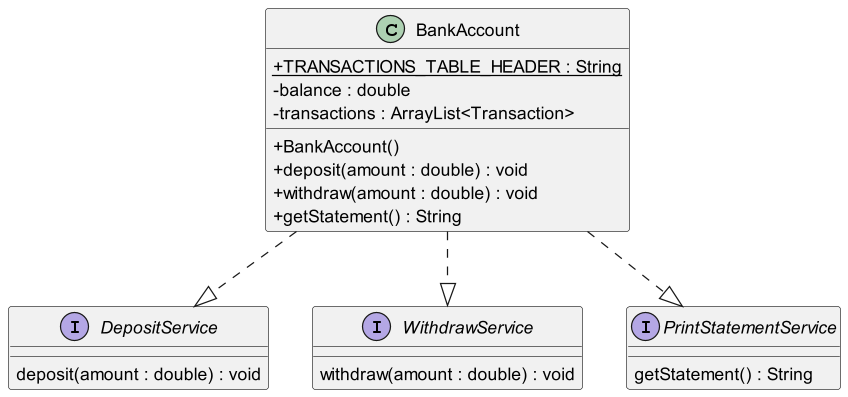
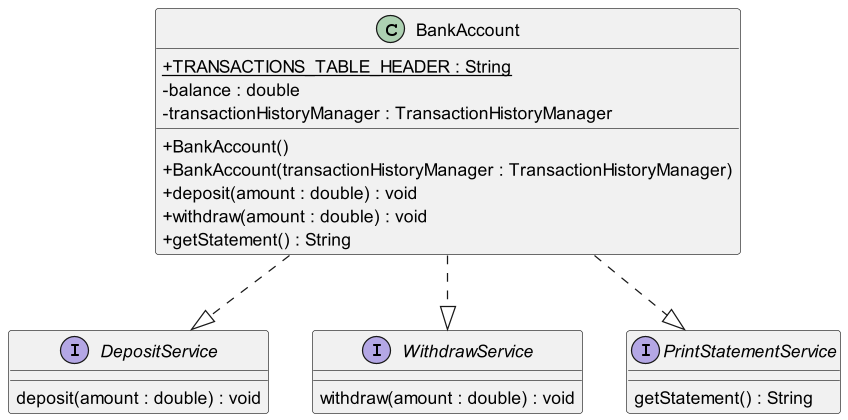
docs: Update latest README

diff --git a/README.md b/README.md
@@ -1,4 +1,4 @@
-# 🏦 AwesomeGIC Bank: Documentation
+# AwesomeGIC Bank: Documentation
 
 ## User stories
 
@@ -18,7 +18,7 @@
 
 ### Directory Structure
 
-```c
+```bash
 │   BankTeller.java
 │   Main.java
 │
@@ -45,34 +45,36 @@
 └───transactions
         DepositTransaction.java
         Transaction.java
+        TransactionHistoryManager.java
         WithdrawTransaction.java
+
 ```
 
-### **Transaction**s
+### **Transaction classes**
 
 ![Untitled](AwesomeGIC Bank Documentation 5a309353adeb48d096b20623e5dc11af/Untitled.png)
 
-A class that keeps track of the details of a single transaction, such as date, amount, and balance. There are 2 types of **Transaction**s, which are `WithdrawTransaction` and `DepositTransaction`.
+The abstract class `Transaction` keeps track of the details of a single transaction, such as date, amount, and balance. There are 2 types of **Transaction**s, which are `WithdrawTransaction` and `DepositTransaction`. `TransactionHistoryManager` keeps track of the transaction history, ordered by transaction date, using an `ArrayList`.
 
-### Bank Account Operations
+### BankAccountOperation classes
 
 ![Untitled](AwesomeGIC Bank Documentation 5a309353adeb48d096b20623e5dc11af/Untitled 1.png)
 
-The 4 main operations, **Deposit**, **Withdraw**, **PrintStatement,** and **Quit**, all implement the **execute()** method from the **BankAccountOperation** interface. **BankAccountOperationFactory** is a factory class that creates operations of type **BankAccountOperation** for the bank account. It applies the Factory Method design pattern.
+The 4 main operations, **Deposit**, **Withdraw**, **PrintStatement,** and **Quit**, all implement the **execute()** method from the `BankAccountOperation` interface. `BankAccountOperationFactory` is a factory class that creates operations of type **`**BankAccountOperation` for the bank account. It applies the **Factory Method** and **Command** design patterns.
 
 ### the BankAccount class
 
 ![Untitled](AwesomeGIC Bank Documentation 5a309353adeb48d096b20623e5dc11af/Untitled 2.png)
 
-The **BankAccount** class implements the logic to support the main functionalities of a bank account, through the **deposit()**, **withdraw(),** and **getStatement()** methods. It keeps track of the current balance of the bank account and a historical list of **Transaction**s, ordered by transaction date.
+The `BankAccount` class implements the logic to support the main functionalities of a bank account, through the `deposit()`, `withdraw()`**,** and `getStatement()` methods. It keeps track of the current balance of the bank account and a historical list of **Transaction**s, using the `TransactionManager`.
 
 ### the BankTeller class
 
 ![Untitled](AwesomeGIC Bank Documentation 5a309353adeb48d096b20623e5dc11af/Untitled 3.png)
 
-The BankTeller class plays the role of a bank teller in a real-world scenario, handling user requests and bank responses through I/O operations. It is the sole entry point to interact with a bank account.
+The `BankTeller` class plays the role of a bank teller in a real-world scenario, handling user requests and bank responses through I/O operations. It is the sole entry point to interact with a bank account.
 
-### Exceptions
+### Exception classes
 
 ![Untitled](AwesomeGIC Bank Documentation 5a309353adeb48d096b20623e5dc11af/Untitled 4.png)
 
@@ -82,15 +84,15 @@ The exceptions focus on handling scenarios where the user input will result in a
 
 ![output.png](AwesomeGIC Bank Documentation 5a309353adeb48d096b20623e5dc11af/output.png)
 
-## **Software Engineering Principles**
+## **Object-oriented Design Principles**
 
 ### Single Responsibility
 
-In this application, each class only has one responsibility and one reason to change. For example, the `BankAccount` class fully handles the logic of a bank account, the `BankTeller` class handles all user requests, the `Transaction` classes are responsible for storing individual transaction data, and the `Operation`classes each handle their respective scenario.
+In this application, each class only has one responsibility and one reason to change. For example, the `BankAccount` class fully handles the logic of a bank account, the `BankTeller` class handles all user requests, the `Transaction` classes are responsible for storing individual transaction data, the `TransactionHistoryManager` keeps track of the historical list of **Transaction**s, and the `Operation`classes each handle their respective scenario.
 
 ### **Open-closed Principle**
 
-Classes in this application are designed such that they are open for extension but closed for modification. For example, the `Transaction` class could be extended to model different types of bank account transactions, like `PaymentTransaction` and `InterestTransaction`. The `BankAccount` class could be extended to model different type of bank accounts, like`FixedDepositBankAccount`, `SavingsBankAccount`, and `SalaryBankAccount`. This allows for flexibility and reduces the risk of introducing bugs when extending the system's functionality.
+Classes in this application are designed such that they are open for extension but closed for modification. For example, the `Transaction` abstract class could be extended to model different types of bank account transactions, like `PaymentTransaction` and `InterestTransaction`. The `BankAccount` class could be extended to model different type of bank accounts, like`FixedDepositBankAccount`, `SavingsBankAccount`, and `SalaryBankAccount`. This allows for flexibility and reduces the risk of introducing bugs when extending the system's functionality.
 
 ### Liskov Substitution
 
@@ -106,10 +108,10 @@ For example, the `BankTeller` constructor takes in `Scanner`, `BankAccount`, and
 
 ## Code Quality
 
-- Application of Single Level of Abstraction Principle (SLAP).
+- Application of Single Level of Abstraction Principle (**SLAP**).
 - Use of guard clauses to keep the happy path prominent.
 - No magic numbers and string literals, abstracted them out as constants instead.
-- Widespread coverage and correct format of Javadoc.
+- Widespread coverage and correct format of **Javadoc**.
 
 ## Representation Invariants and Assertions
 
@@ -119,13 +121,17 @@ The representation invariant for the bank account is that balances must be non-n
 
 ## Performance
 
-As opposed to using naive String concatenation, which results in a time complexity of **O(N²)** due to the immutability of `String` in Java, where **N** is the length of the final String, `StringBuilder` was used in`getStatement()` to provide **O(N)** time complexity when building the transaction table.
+As opposed to using naive String concatenation, which results in a time complexity of **O(N²)** due to the immutability of `String` in Java, where **N** is the length of the final String, `StringBuilder` was used in the `toString()` method of `TransactionHistoryManager` to provide **O(N)** time complexity when building the transaction table.
 
 ## Possible Future Enhancements
 
-### Supporting Concurrency
+### Concurrency
 
 Concurrent access from multiple clients is a critical scenario in a banking system. In a multi-client, concurrent environment, each client could be represented by a thread in the `BankTeller` thread pool. To achieve this, methods like `deposit()`, `withdraw()`, and `getStatement()` in the `BankAccount` class should be explicitly synchronized using the `synchronized` keyword. Outside synchronized blocks, shared data structures such as `ArrayList`, used to store transaction history, must be synchronized using the Java `Collections` library to avoid thread safety issues. By synchronizing access to these resources, we can safeguard against race conditions, thus maintaining the integrity of bank account data.
+
+### Database Integration
+
+As a banking system which prioritises consistency over availability, an **SQL** database, which adheres to the **ACID** model, may be preferred over a **NoSQL** database. The database tables that may be needed are `Customer`, `BankAccount`, `Transaction`, and `AuditLog`. We could use **JDBC** (Java Database Connectivity) to interact with the database. **ORM** frameworks such as **Hibernate** or **JPA** could be used to map Java objects to the database tables.
 
 ### Supporting Different Types of Bank Accounts
 
@@ -135,22 +141,123 @@ To accommodate various types of bank accounts like `FixedDepositBankAccount`, `S
 
 Unit testing and integration testing are essential components of ensuring the reliability and correctness of the banking application.
 
-### Unit Testing
+### Unit Test Plan
 
-1. **Deposit Functionality**: Unit tests should verify that the deposit functionality works as expected. This includes:
-    - Testing depositing various amounts of money.
-    - Checking that the balance is updated correctly after each deposit.
-    - Ensuring that appropriate error handling is in place for invalid inputs.
-2. **Withdrawal Functionality**: Unit tests should cover all aspects of the withdrawal functionality, such as:
-    - Testing withdrawals of different amounts.
-    - Verifying that the balance is updated correctly after each withdrawal.
-    - Checking for insufficient funds scenarios and appropriate error handling.
-3. **Print Statement Functionality**: Unit tests should validate the print statement functionality by:
-    - Verifying that the printed statement contains the correct transaction details.
-    - Ensuring that the statement includes the appropriate header and formatting.
-4. **Quit Functionality**: Although straightforward, unit tests should confirm that the application exits gracefully when the user chooses to quit.
+### BankAccount.java
 
-### Integration Testing
+### Test Cases:
+
+- Test depositing a positive amount updates the balance correctly.
+- Test depositing a non-positive amount throws `DepositAmountNonPositiveException`.
+- Test withdrawing a valid amount updates the balance correctly.
+- Test withdrawing a non-positive amount throws `WithdrawAmountNonPositiveException`.
+- Test withdrawing an amount exceeding the balance throws `WithdrawAmountExceedDepositException`.
+- Test printing the account statement generates the correct output.
+
+### BankAccountOperationFactory.java
+
+### Test Cases:
+
+- Test creating `DepositOperation`returns the correct instance.
+- Test creating `WithdrawOperation` eturns the correct instance.
+- Test creating `PrintStatementOperation`returns the correct instance.
+- Test creating `QuitOperation` returns the correct instance.
+- Test creating with an invalid character returns null.
+
+### DepositOperation.java
+
+### Test Cases:
+
+- Test executing deposit operation updates the balance correctly.
+
+### WithdrawOperation.java
+
+### Test Cases:
+
+- Test executing withdraw operation updates the balance correctly.
+
+### PrintStatementOperation.java
+
+### Test Cases:
+
+- Test executing print statement operation generates the correct output.
+
+### QuitOperation.java
+
+### Test Cases:
+
+- Test executing quit operation exits the application.
+
+### BankAccountOperationException.java
+
+### Test Cases:
+
+- Test throwing `BankAccountOperationException`with a custom message.
+
+### DepositAmountNonPositiveException.java
+
+### Test Cases:
+
+- Test throwing `DepositAmountNonPositiveException` with a custom message.
+
+### WithdrawAmountExceedDepositException.java
+
+### Test Cases:
+
+- Test throwing `WithdrawAmountExceedDepositException` with a custom message.
+
+### WithdrawAmountNonPositiveException.java
+
+### Test Cases:
+
+- Test throwing `WithdrawAmountNonPositiveException` with a custom message.
+
+### DepositTransaction.java
+
+### Test Cases:
+
+- Test creating deposit transaction with the correct details.
+
+### TransactionHistoryManager.java
+
+### Test Cases:
+
+- Test adding a transaction to the transaction history.
+- Test retrieving transaction history for a specific account.
+
+### WithdrawTransaction.java
+
+### Test Cases:
+
+- Test creating withdraw transaction with the correct details.
+
+### BankTeller.java
+
+### Test Cases:
+
+- Test BankTeller start method initiates the banking application correctly.
+
+### Main.java
+
+### Test Cases:
+
+- Test Main class executes without errors.
+
+### Test Data:
+
+- Prepare test data for deposit, withdrawal, and printing statement scenarios.
+- Include positive cases, negative cases, and boundary cases to cover various scenarios.
+
+### Test Execution:
+
+- Execute each test case individually to verify its functionality.
+- Ensure that all tests pass successfully.
+- Use mocking frameworks like Mockito to mock external dependencies and isolate components for unit testing.
+- Use code coverage tools to ensure that all lines of code are covered by unit tests.
+
+By following this unit test plan, you can ensure comprehensive test coverage and validate the functionality of each component in the banking system.
+
+### Integration Test Plan
 
 Integration tests should simulate the entire user interaction flow from start to finish, including:
 
